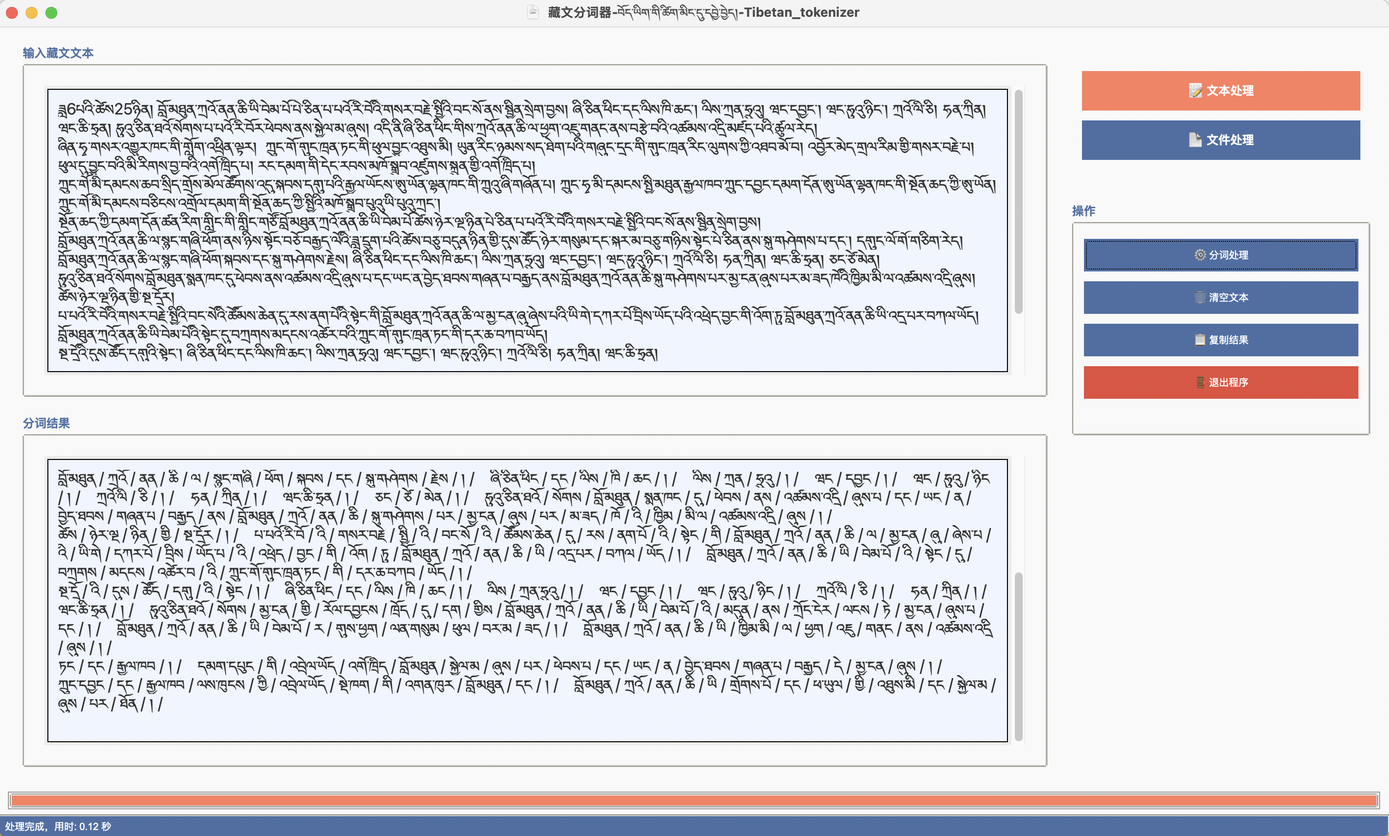
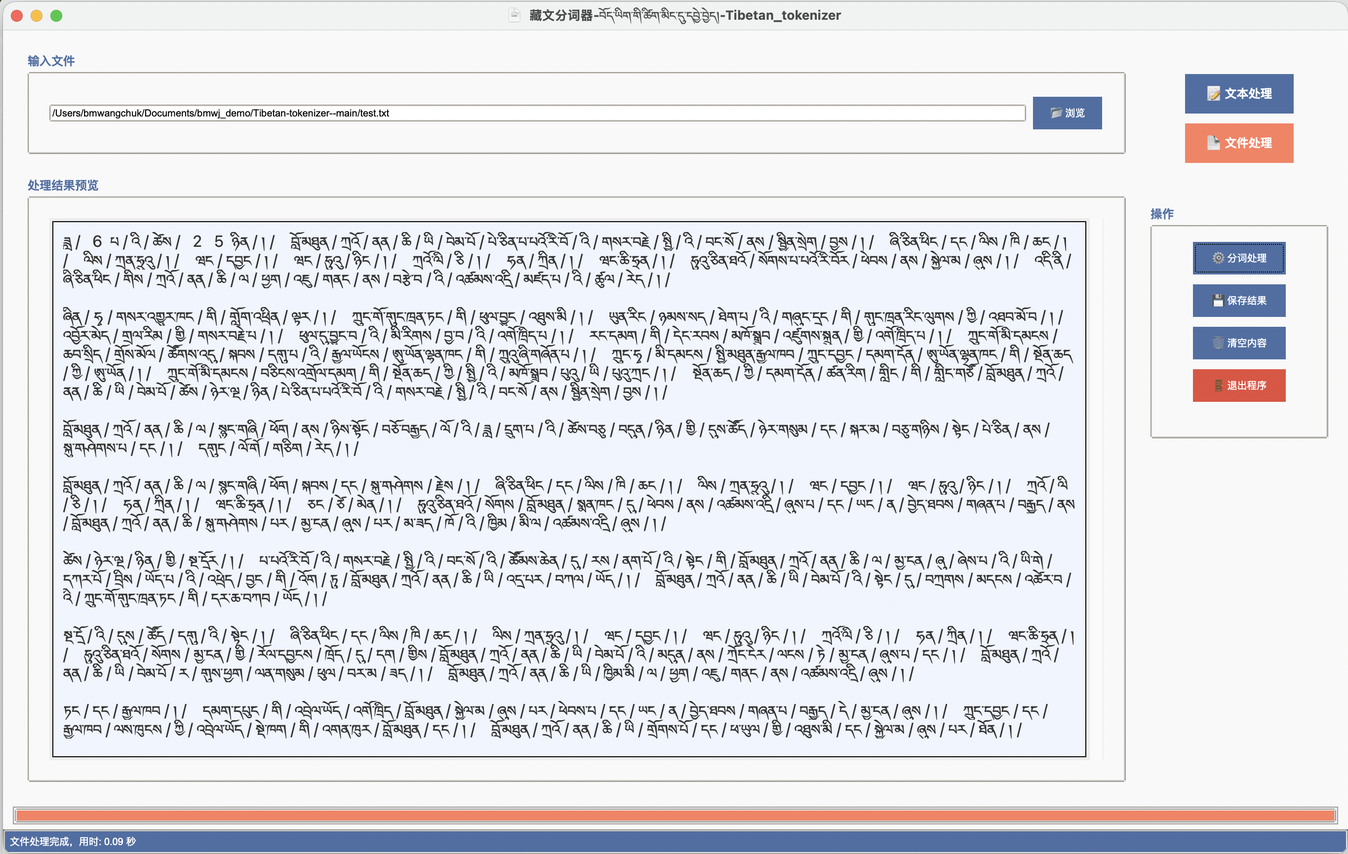
功能模块优化

Changed region(s): [[0.0, 0.0, 1.0, 1.0], [0.3736, 0.0, 0.6227, 0.0307]]

diff --git a/TibetanTokenizerGUI.py b/TibetanTokenizerGUI.py
@@ -407,8 +407,8 @@ class TibetanTokenizerGUI:
         self.content_frame = ttk.Frame(self.main_frame)
         self.content_frame.pack(side=tk.LEFT, fill=tk.BOTH, expand=True)
         
-        # 调整按钮区域占比为20%
-        self.button_frame = ttk.Frame(self.main_frame, width=int(self.root.winfo_screenwidth() * 0.20))
+        # 调整按钮区域为固定宽度，更合理的尺寸
+        self.button_frame = ttk.Frame(self.main_frame, width=180)
         self.button_frame.pack(side=tk.RIGHT, fill=tk.Y, padx=10)
         self.button_frame.pack_propagate(False)  # 防止按钮框架被内容压缩
         
@@ -432,17 +432,19 @@ class TibetanTokenizerGUI:
             self.mode_frame, 
             text=f"{self.icons['text_mode']} 文本处理", 
             command=self.show_text_mode,
-            style="TextMode.TButton"
+            style="TextMode.TButton",
+            width=12  # 设置合适的宽度
         )
-        self.text_mode_button.pack(fill=tk.X, pady=5)
+        self.text_mode_button.pack(pady=5, padx=2)
         
         self.file_mode_button = ttk.Button(
             self.mode_frame, 
             text=f"{self.icons['file_mode']} 文件处理", 
             command=self.show_file_mode,
-            style="FileMode.TButton"
+            style="FileMode.TButton",
+            width=12  # 设置合适的宽度
         )
-        self.file_mode_button.pack(fill=tk.X, pady=5)
+        self.file_mode_button.pack(pady=5, padx=2)
         
         # 创建操作按钮区域
         self.operation_frame = ttk.LabelFrame(self.button_frame, text="操作", padding="10")
@@ -455,35 +457,39 @@ class TibetanTokenizerGUI:
             self.text_operation_frame, 
             text=f"{self.icons['process']} 分词处理", 
             command=self.process_text,
-            style="TButton"
+            style="TButton",
+            width=12
         )
-        self.process_text_button.pack(fill=tk.X, pady=5)
+        self.process_text_button.pack(pady=5, padx=2, anchor=tk.CENTER)
         
         self.clear_text_button = ttk.Button(
             self.text_operation_frame, 
             text=f"{self.icons['clear']} 清空文本", 
             command=self.clear_text,
-            style="TButton"
+            style="TButton",
+            width=12
         )
-        self.clear_text_button.pack(fill=tk.X, pady=5)
+        self.clear_text_button.pack(pady=5, padx=2, anchor=tk.CENTER)
         
         # 添加复制结果按钮
         self.copy_result_button = ttk.Button(
             self.text_operation_frame, 
             text=f"{self.icons['copy']} 复制结果", 
             command=self.copy_result,
-            style="TButton"
+            style="TButton",
+            width=12
         )
-        self.copy_result_button.pack(fill=tk.X, pady=5)
+        self.copy_result_button.pack(pady=5, padx=2, anchor=tk.CENTER)
         
         # 添加退出按钮到操作区域
         self.exit_button_text = ttk.Button(
             self.text_operation_frame, 
             text=f"{self.icons['exit']} 退出程序", 
             command=self.exit_program,
-            style="Exit.TButton"
+            style="Exit.TButton",
+            width=12
         )
-        self.exit_button_text.pack(fill=tk.X, pady=5)
+        self.exit_button_text.pack(pady=5, padx=2, anchor=tk.CENTER)
         
         # 文件模式按钮 (初始隐藏)
         self.file_operation_frame = ttk.Frame(self.operation_frame)
@@ -492,34 +498,38 @@ class TibetanTokenizerGUI:
             self.file_operation_frame, 
             text=f"{self.icons['process']} 分词处理", 
             command=self.process_file,
-            style="TButton"
+            style="TButton",
+            width=12
         )
-        self.process_file_button.pack(fill=tk.X, pady=5)
+        self.process_file_button.pack(pady=5, padx=2, anchor=tk.CENTER)
         
         self.save_file_button = ttk.Button(
             self.file_operation_frame, 
             text=f"{self.icons['save']} 保存结果", 
             command=self.save_result_file,
-            style="TButton"
+            style="TButton",
+            width=12
         )
-        self.save_file_button.pack(fill=tk.X, pady=5)
+        self.save_file_button.pack(pady=5, padx=2, anchor=tk.CENTER)
         
         self.clear_file_button = ttk.Button(
             self.file_operation_frame, 
             text=f"{self.icons['clear']} 清空内容", 
             command=self.clear_file_fields,
-            style="TButton"
+            style="TButton",
+            width=12
         )
-        self.clear_file_button.pack(fill=tk.X, pady=5)
+        self.clear_file_button.pack(pady=5, padx=2, anchor=tk.CENTER)
         
         # 添加退出按钮到文件操作区域
         self.exit_button_file = ttk.Button(
             self.file_operation_frame, 
             text=f"{self.icons['exit']} 退出程序", 
             command=self.exit_program,
-            style="Exit.TButton"
+            style="Exit.TButton",
+            width=12
         )
-        self.exit_button_file.pack(fill=tk.X, pady=5)
+        self.exit_button_file.pack(pady=5, padx=2, anchor=tk.CENTER)
         
         # 创建文本处理区域
         self.text_content_frame = ttk.Frame(self.content_frame)
@@ -588,11 +598,11 @@ class TibetanTokenizerGUI:
         # 添加浏览按钮到文件选择区域
         ttk.Button(
             file_input_frame, 
-            text=f"{self.icons['browse']} 浏览...", 
+            text=f"{self.icons['browse']} 浏览", 
             command=self.browse_input_file,
             style="TButton",
-            width=10
-        ).pack(side=tk.RIGHT)
+            width=8
+        ).pack(side=tk.RIGHT, padx=2)
         
         # 结果显示区域
         result_frame = ttk.LabelFrame(self.file_content_frame, text="处理结果预览", padding="15")

diff --git a/README.md b/README.md
@@ -16,7 +16,7 @@
 
 ## 📝 项目简介
 <p>
-<img src="./output/image.png" alt="首页">
+<img src="./output/imagecopy0.png" alt="首页">
 </p>
 本项目是一个高效的藏文分词工具，采用Bi-LSTM+CRF深度学习方法，为藏文自然语言处理研究提供基础支持。工具提供命令行和图形界面两种使用方式，方便不同场景下的应用需求。
 
@@ -33,12 +33,26 @@
 ### 环境要求
 
 - Python 3.6+
+- PyTorch 1.7.0+
+- Pillow 8.0.0+
+
+### 快速启动（推荐）
+
+使用提供的启动脚本可以自动检查环境并启动程序：
+
+```bash
+# 给脚本添加执行权限（仅首次需要）
+chmod +x run_tokenizer.sh
+
+# 运行启动脚本
+./run_tokenizer.sh
+```
 
 ### 命令行模式
 
 1. **安装依赖**：
    ```bash
-   pip install -r requirements.txt
+   pip install -r requirments.txt
    ```
 
 2. **执行分词**：
@@ -52,7 +66,7 @@
 
 1. **安装依赖**：
    ```bash
-   pip install -r requirements.txt
+   pip install -r requirments.txt
    ```
 
 2. **启动图形界面**：
@@ -71,6 +85,8 @@
 - `NyimaTashi.py` - 命令行分词工具
 - `TibetanTokenizerGUI.py` - 图形界面分词工具
 - `model.py` - 模型定义文件
+- `run_tokenizer.sh` - 启动脚本，提供自动环境检查和程序启动
+- `requirments.txt` - 项目依赖文件
 - `model/` - 预训练模型目录
 - `fontfile/` - 字体文件目录
 - `output/` - 输出目录，包含分词结果文件和图片文件
@@ -78,3 +94,4 @@
 ## 🔗 相关链接
 
 原项目地址：[https://github.com/gyatso736/Tibetan-tokenizer-](https://github.com/gyatso736/Tibetan-tokenizer-)
+
